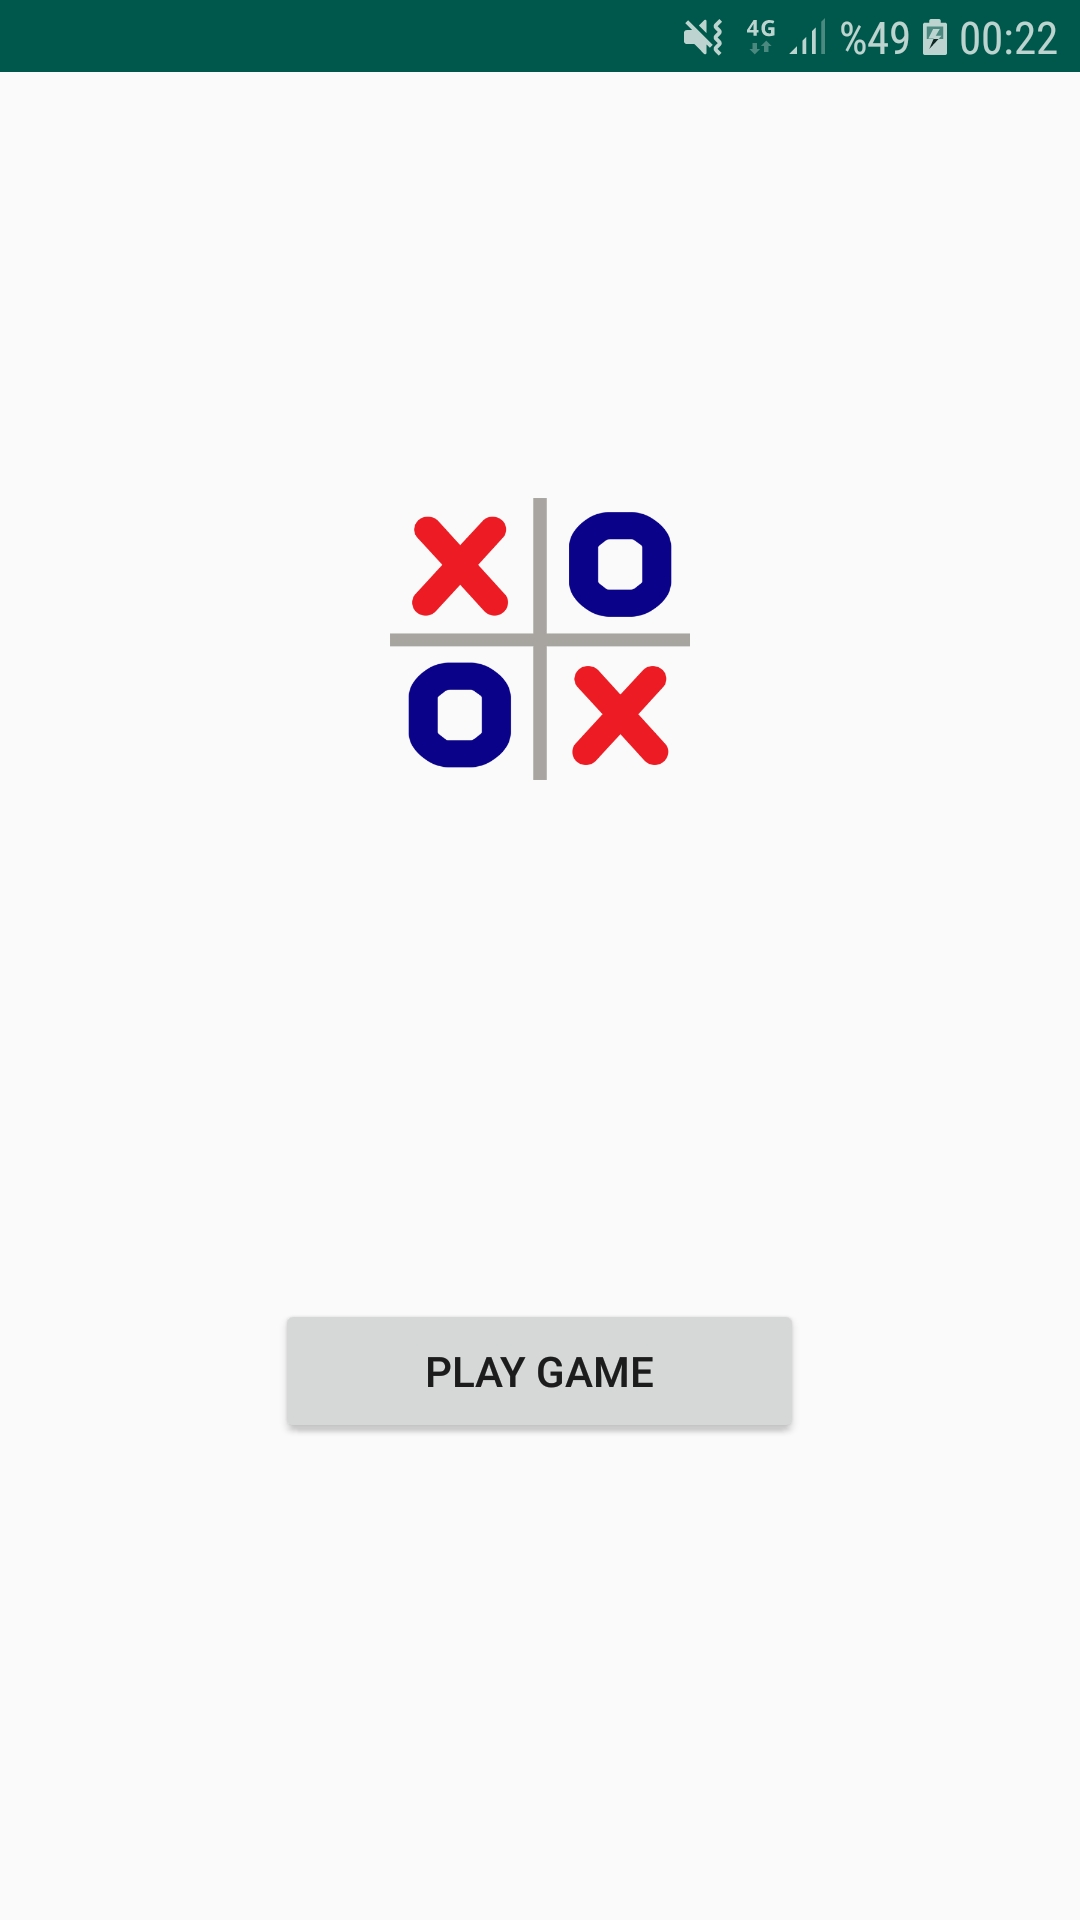
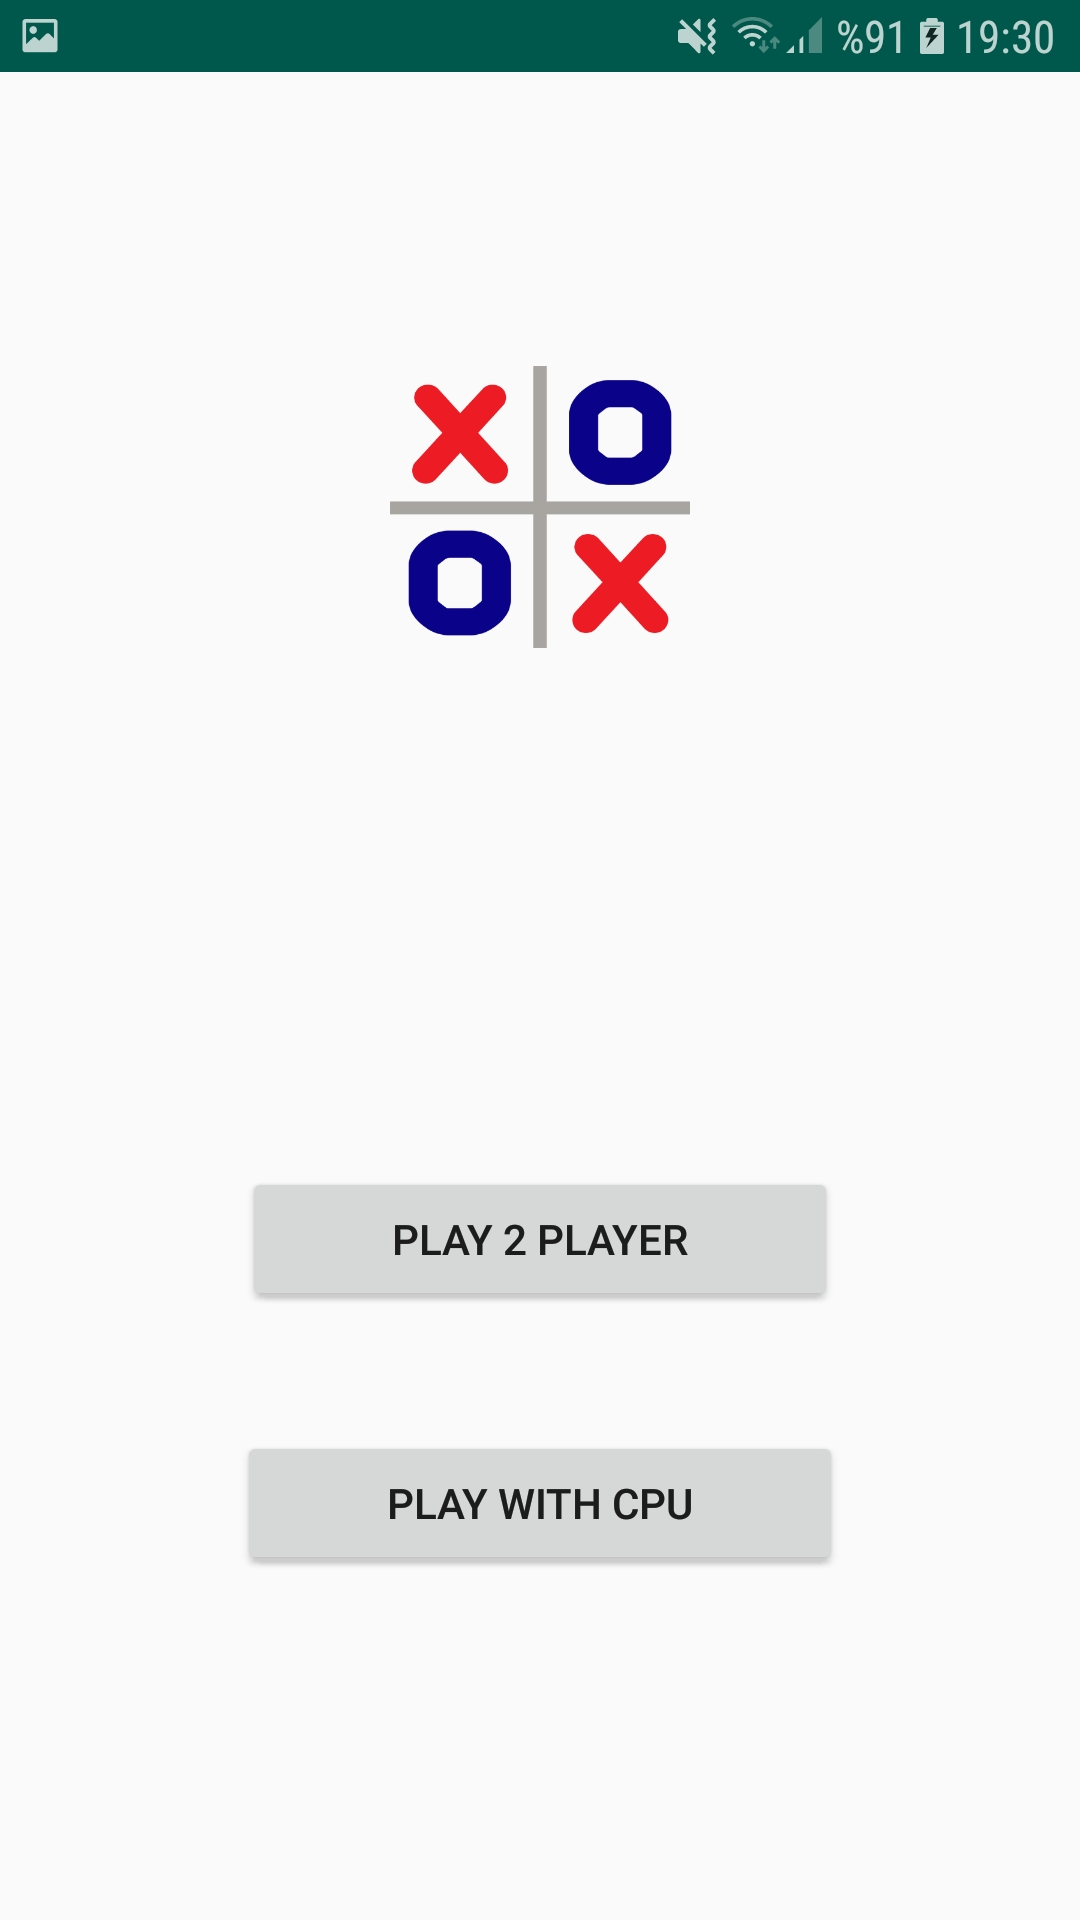
Main Page Fixed

diff --git a/TikTakToeGame/app/src/main/java/com/tohandesign/tiktaktoegame/GameActivity.java b/TikTakToeGame/app/src/main/java/com/tohandesign/tiktaktoegame/GameActivity.java
@@ -19,9 +19,10 @@ public class GameActivity extends AppCompatActivity {
     public int turn = 1;
 
     public boolean wintester = false;
+    public boolean drawtester = false;
     public boolean resettest = false;
     public boolean pause = false;
-    public boolean CPUtest = true;
+    public boolean CPUtest;
 
 
     public TextView turnText;
@@ -40,6 +41,9 @@ public class GameActivity extends AppCompatActivity {
         roundText = (TextView) findViewById(R.id.roundText);
         p1scoretext = (TextView) findViewById(R.id.p1score);
         p2scoretext = (TextView) findViewById(R.id.p2score);
+        CPUtest = getIntent().getBooleanExtra("CPU_VALUE", false);
+
+
     }
 
 
@@ -218,7 +222,7 @@ public class GameActivity extends AppCompatActivity {
 
             if(CPUtest){
                 turn = 2;
-                if(!wintester){
+                if(!wintester && !drawtester){
                     CPU cpu = new CPU(press);
                     cpu.chechMove();
                     int[] move = cpu.getMove();
@@ -383,6 +387,7 @@ public class GameActivity extends AppCompatActivity {
         if(press[0][0] > 0 && press[0][1] > 0 && press[0][2] > 0 &&
                 press[1][0] > 0 && press[1][1] > 0 && press[1][2] > 0 &&
                 press[2][0] > 0 && press[2][1] > 0 && press[2][2] > 0 && wintester == false){
+            drawtester = true;
             drawDialog();
         }
 
@@ -397,10 +402,7 @@ public class GameActivity extends AppCompatActivity {
     //--------------------new round--------------------
     public void newRound() {
         changeTurn();
-        if(CPUtest && turn == 2) {
-            turn =1;
-            changeTurn();
-        }
+
         if(wintester){
             if(turn == 1) {
                 p1score++;
@@ -412,12 +414,19 @@ public class GameActivity extends AppCompatActivity {
             wintester = false;
 
         }
+
+
         round++;
         roundText.setText(String.valueOf(round));
         press = new int[3][3];
         resettest = true;
         pause = false;
         drawTable();
+        drawtester = false;
+        if(CPUtest && turn == 2 && !wintester) {
+            turn = 1;
+            changeTurn();
+        }
 
     }
     //--------------------#new round--------------------
@@ -439,7 +448,9 @@ public class GameActivity extends AppCompatActivity {
             @Override
             public void onClick(DialogInterface dialogInterface, int i) {
                 pause = false;
+                drawtester = false;
                 newRound();
+
 
             }
         });

diff --git a/TikTakToeGame/app/src/main/java/com/tohandesign/tiktaktoegame/MainActivity.java b/TikTakToeGame/app/src/main/java/com/tohandesign/tiktaktoegame/MainActivity.java
@@ -21,6 +21,19 @@ public class MainActivity extends AppCompatActivity {
         playbutton.setOnClickListener(new View.OnClickListener() {
             @Override
             public void onClick(View view) {
+                Boolean bl = false;
+                gameIntent.putExtra("CPU_VALUE", bl);
+                startActivity(gameIntent);
+            }
+        });
+
+        Button cpuButton = (Button) findViewById(R.id.playCPU);
+
+        cpuButton.setOnClickListener(new View.OnClickListener() {
+            @Override
+            public void onClick(View view) {
+                Boolean bl = true;
+                gameIntent.putExtra("CPU_VALUE", bl);
                 startActivity(gameIntent);
             }
         });
